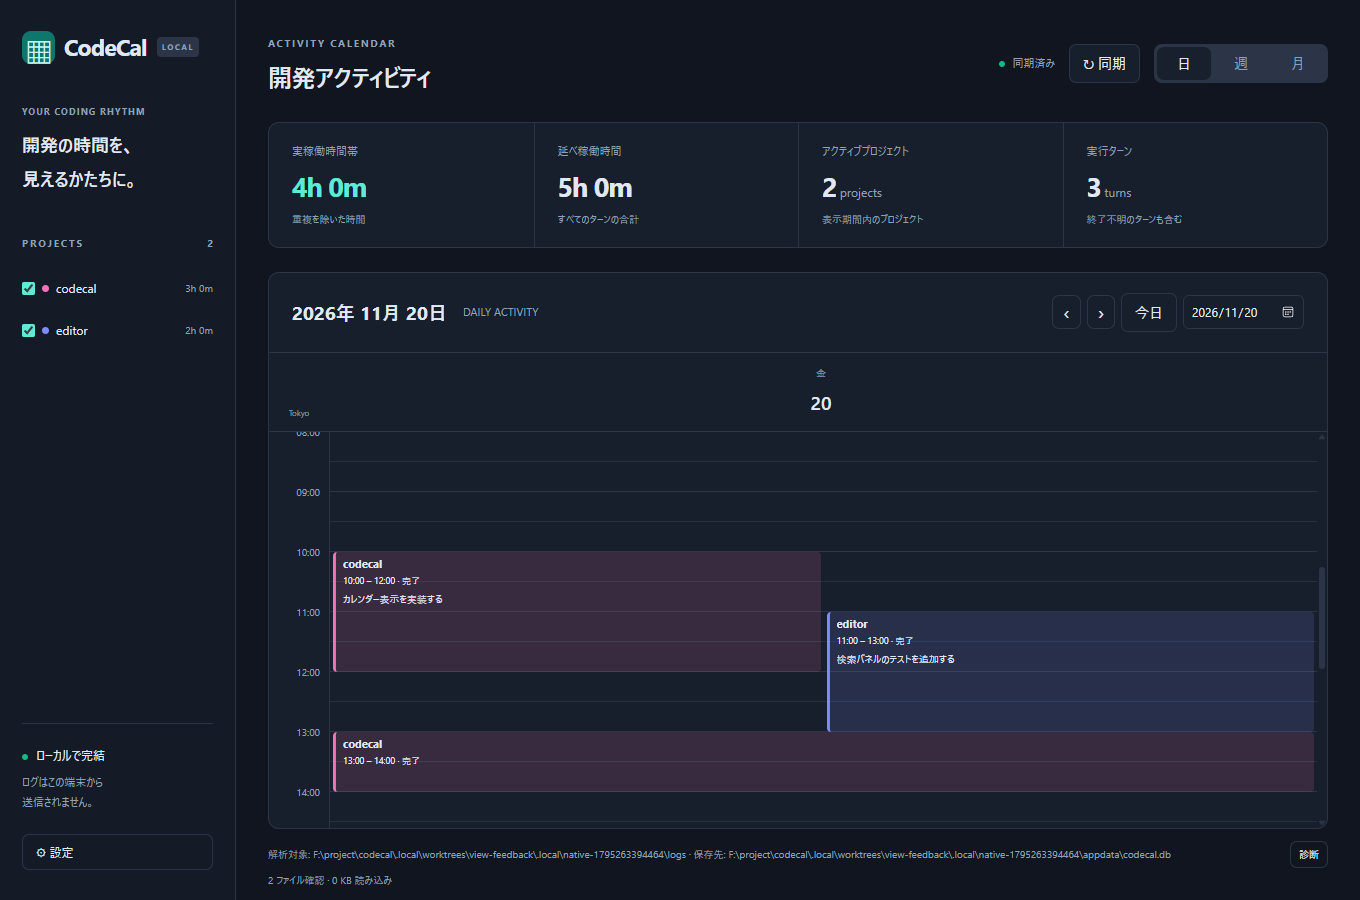
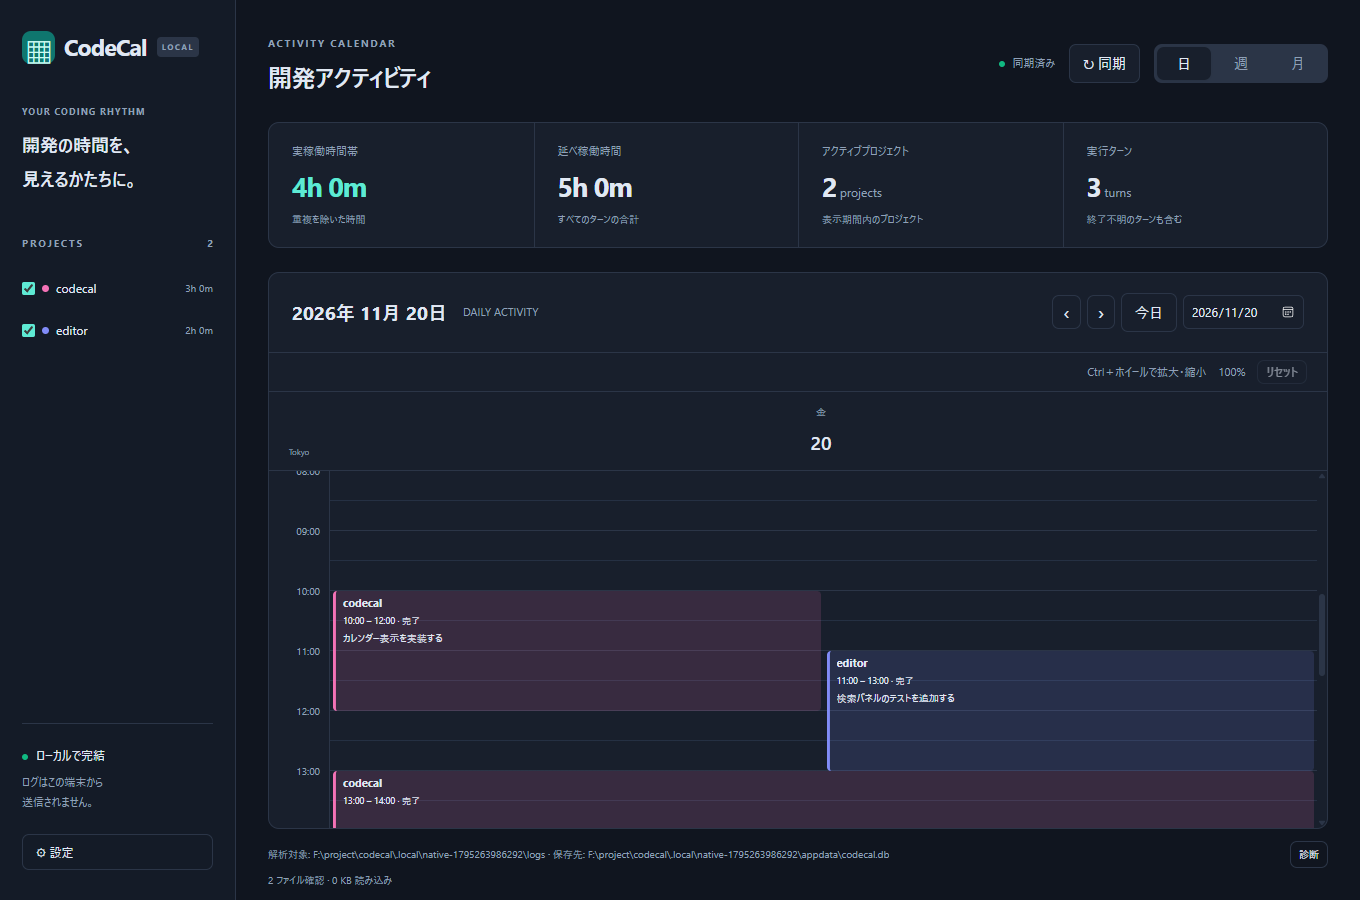
docs: document daily timeline zoom controls and native verification

diff --git a/tests/e2e/native.spec.ts b/tests/e2e/native.spec.ts
@@ -226,7 +226,7 @@ test("month places seven columns left to right with the following week below", a
   }
 });
 
-test("day view shows a spinner, preserves the selected date and navigates one day", async () => {
+test("day view shows a spinner, zooms around the pointer and navigates one day", async () => {
   mkdirSync(path.join(logs, "sessions"), { recursive: true });
   mkdirSync(appdata, { recursive: true });
   try {
